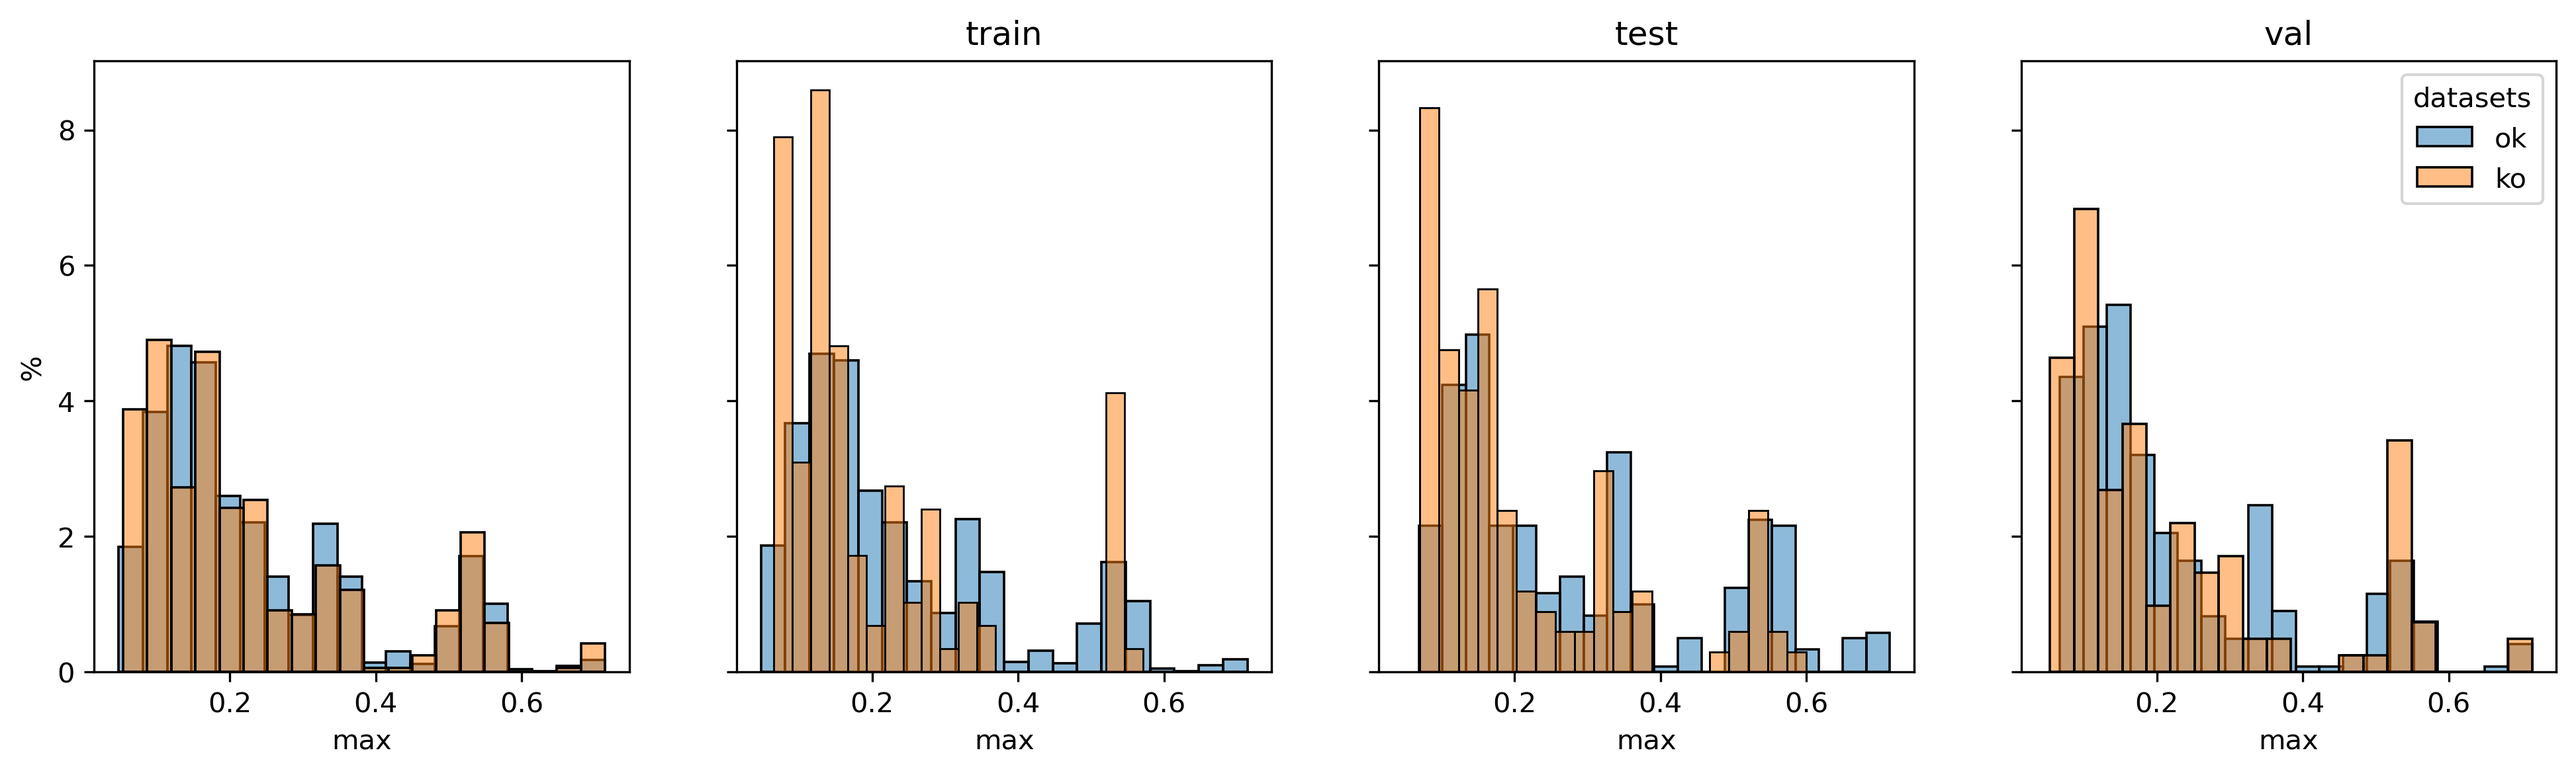
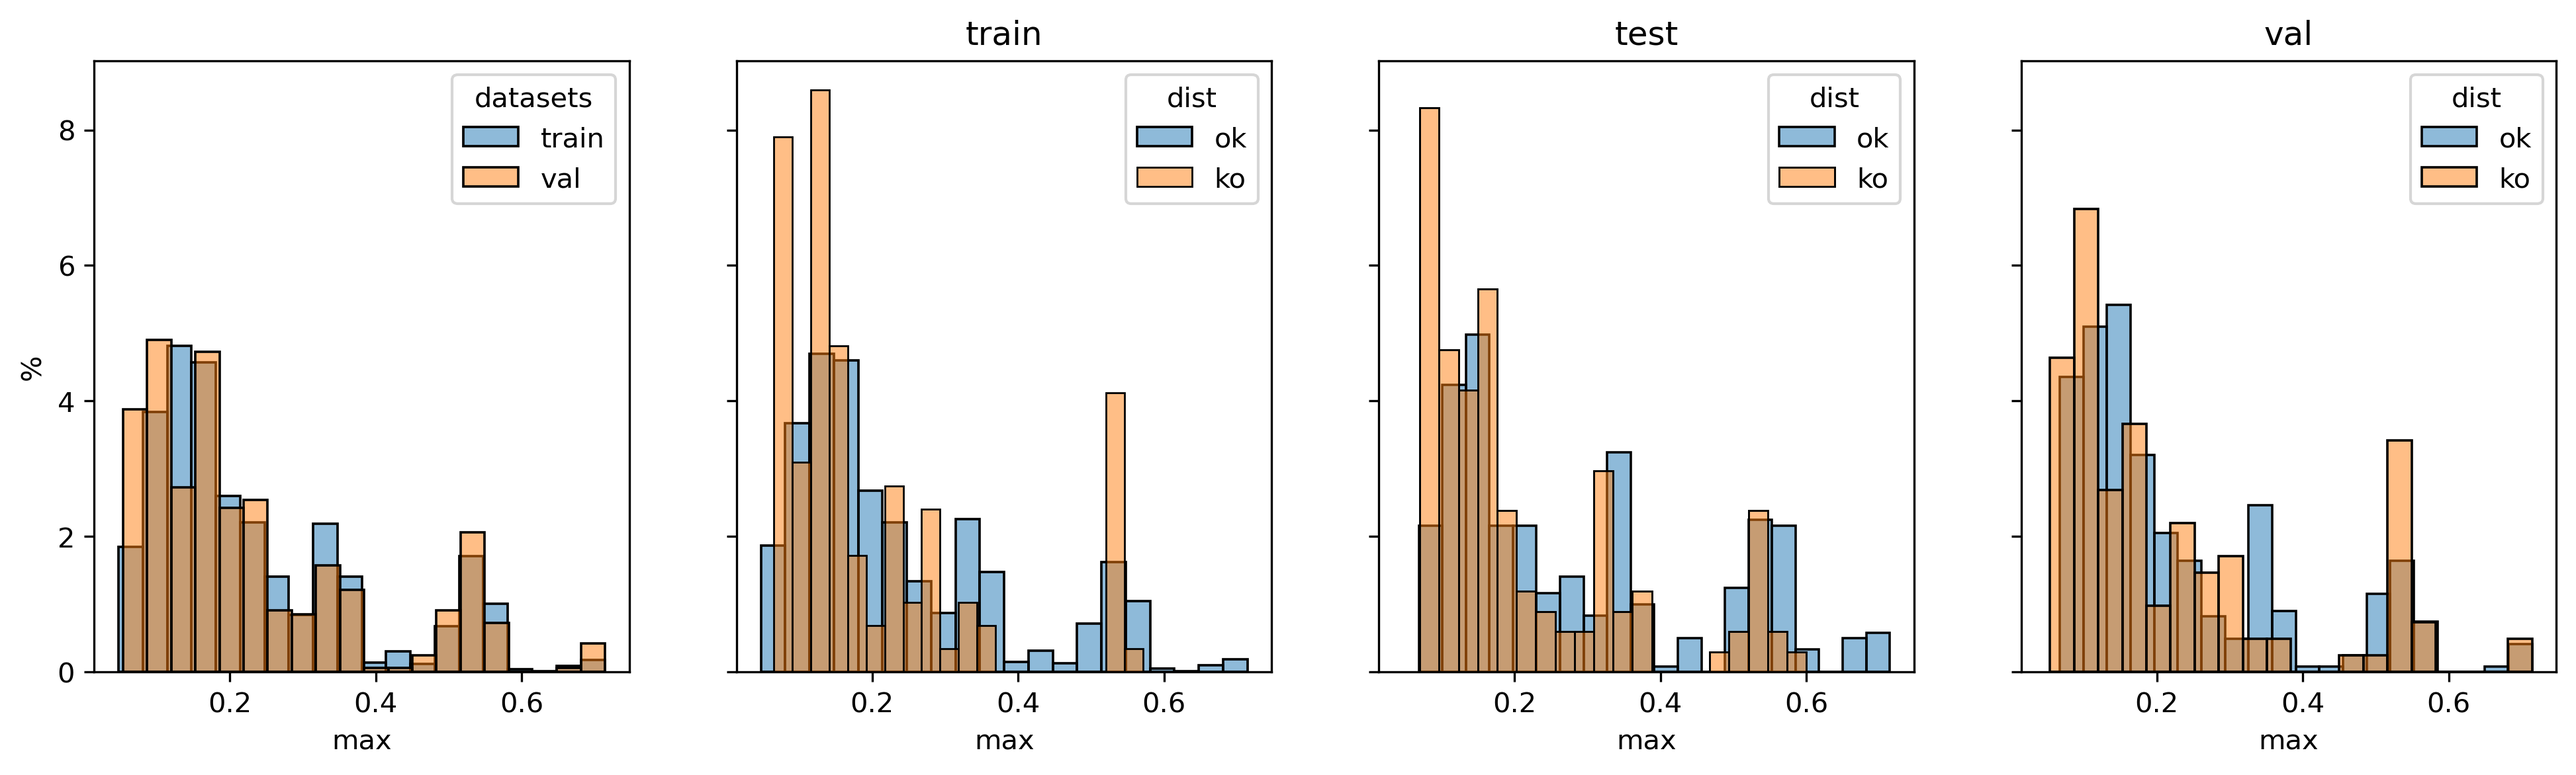
view

diff --git a/src/peepholes/peepholes.py b/src/peepholes/peepholes.py
@@ -205,7 +205,7 @@ class Peepholes:
             ax.set_xlabel(score_type)
             ax.set_ylabel('%')
             ax.title.set_text(ds_key)
-            plt.legend(title='dist')
+            ax.legend(title='dist')
         
         # plot train and test distributions
         ax = axs[0]
@@ -215,7 +215,8 @@ class Peepholes:
         sb.histplot(data=pd.DataFrame({'score': scores}), ax=ax, bins=bins, x='score', stat='density', label='val', alpha=0.5)
         ax.set_ylabel('%')
         ax.set_xlabel(score_type)
-        plt.legend(title='datasets')
+        ax.legend(title='datasets')
+
         plt.savefig((self.path/self.name).as_posix()+'.png', dpi=300, bbox_inches='tight')
         plt.close()
 
